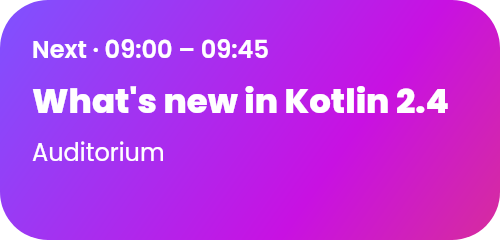
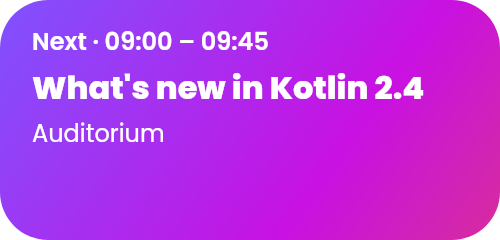
fix(livery): keep the room on KotlinConf's launcher widget
Merges the long renders for every template. At the launcher's nominal 120dp, a long title at 17sp
over three lines pushed the room label out. The title is now 16sp over at most two lines, with
tighter padding and spacing. The long launcher render shows the room.

Claude-Session: https://claude.ai/code/session_017xSuvobFYXdQ2QMpahMagX

Changed region(s): [[0.06, 0.2917, 0.9, 0.4958], [0.06, 0.1167, 0.54, 0.2625], [0.06, 0.4958, 0.33, 0.6708]]

diff --git a/livery-catalog/src/main/kotlin/dev/johnoreilly/confetti/livery/KotlinConfDesigns.kt b/livery-catalog/src/main/kotlin/dev/johnoreilly/confetti/livery/KotlinConfDesigns.kt
@@ -246,11 +246,12 @@ fun KotlinConfSessionWidget() {
             .clip(RemoteRoundedCornerShape(24.rdp))
             .background(kotlinGradient(c, drift = false))
             .clickable(emit(C.open))
-            .padding(16.rdp),
-        verticalArrangement = RemoteArrangement.spacedBy(4.rdp),
+            .padding(horizontal = 16.rdp, vertical = 12.rdp),
+        verticalArrangement = RemoteArrangement.spacedBy(2.rdp),
     ) {
         Label("Next · ".rs + input(C.time), onBrand, size = 12, weight = FontWeight.SemiBold)
-        Label(input(C.title), onBrand, size = 17, weight = FontWeight.Black, maxLines = 3)
+        // Two lines at most: at the launcher's nominal 120dp, a third pushes the room out.
+        Label(input(C.title), onBrand, size = 16, weight = FontWeight.Black, maxLines = 2)
         Label(input(C.room), onBrand, size = 12, weight = FontWeight.Medium)
     }
 }
